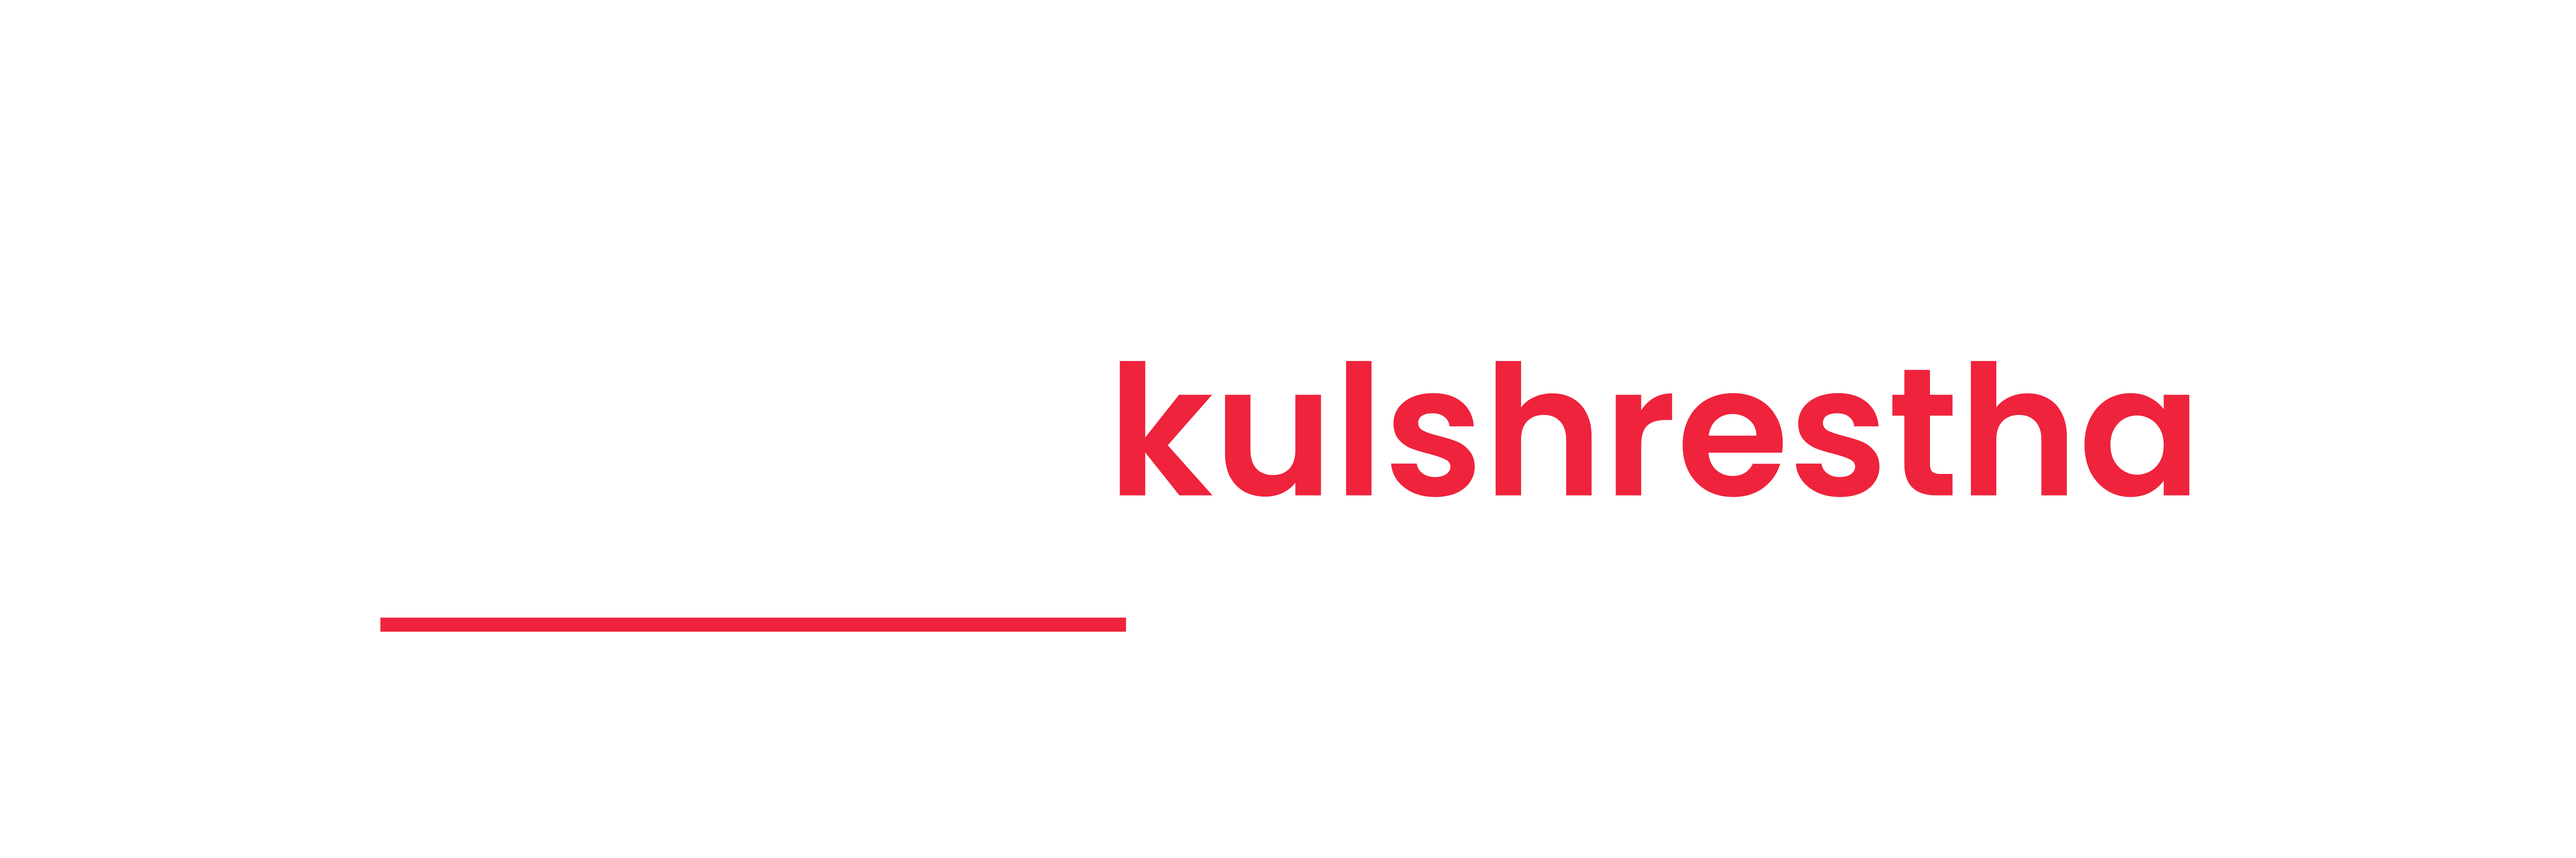
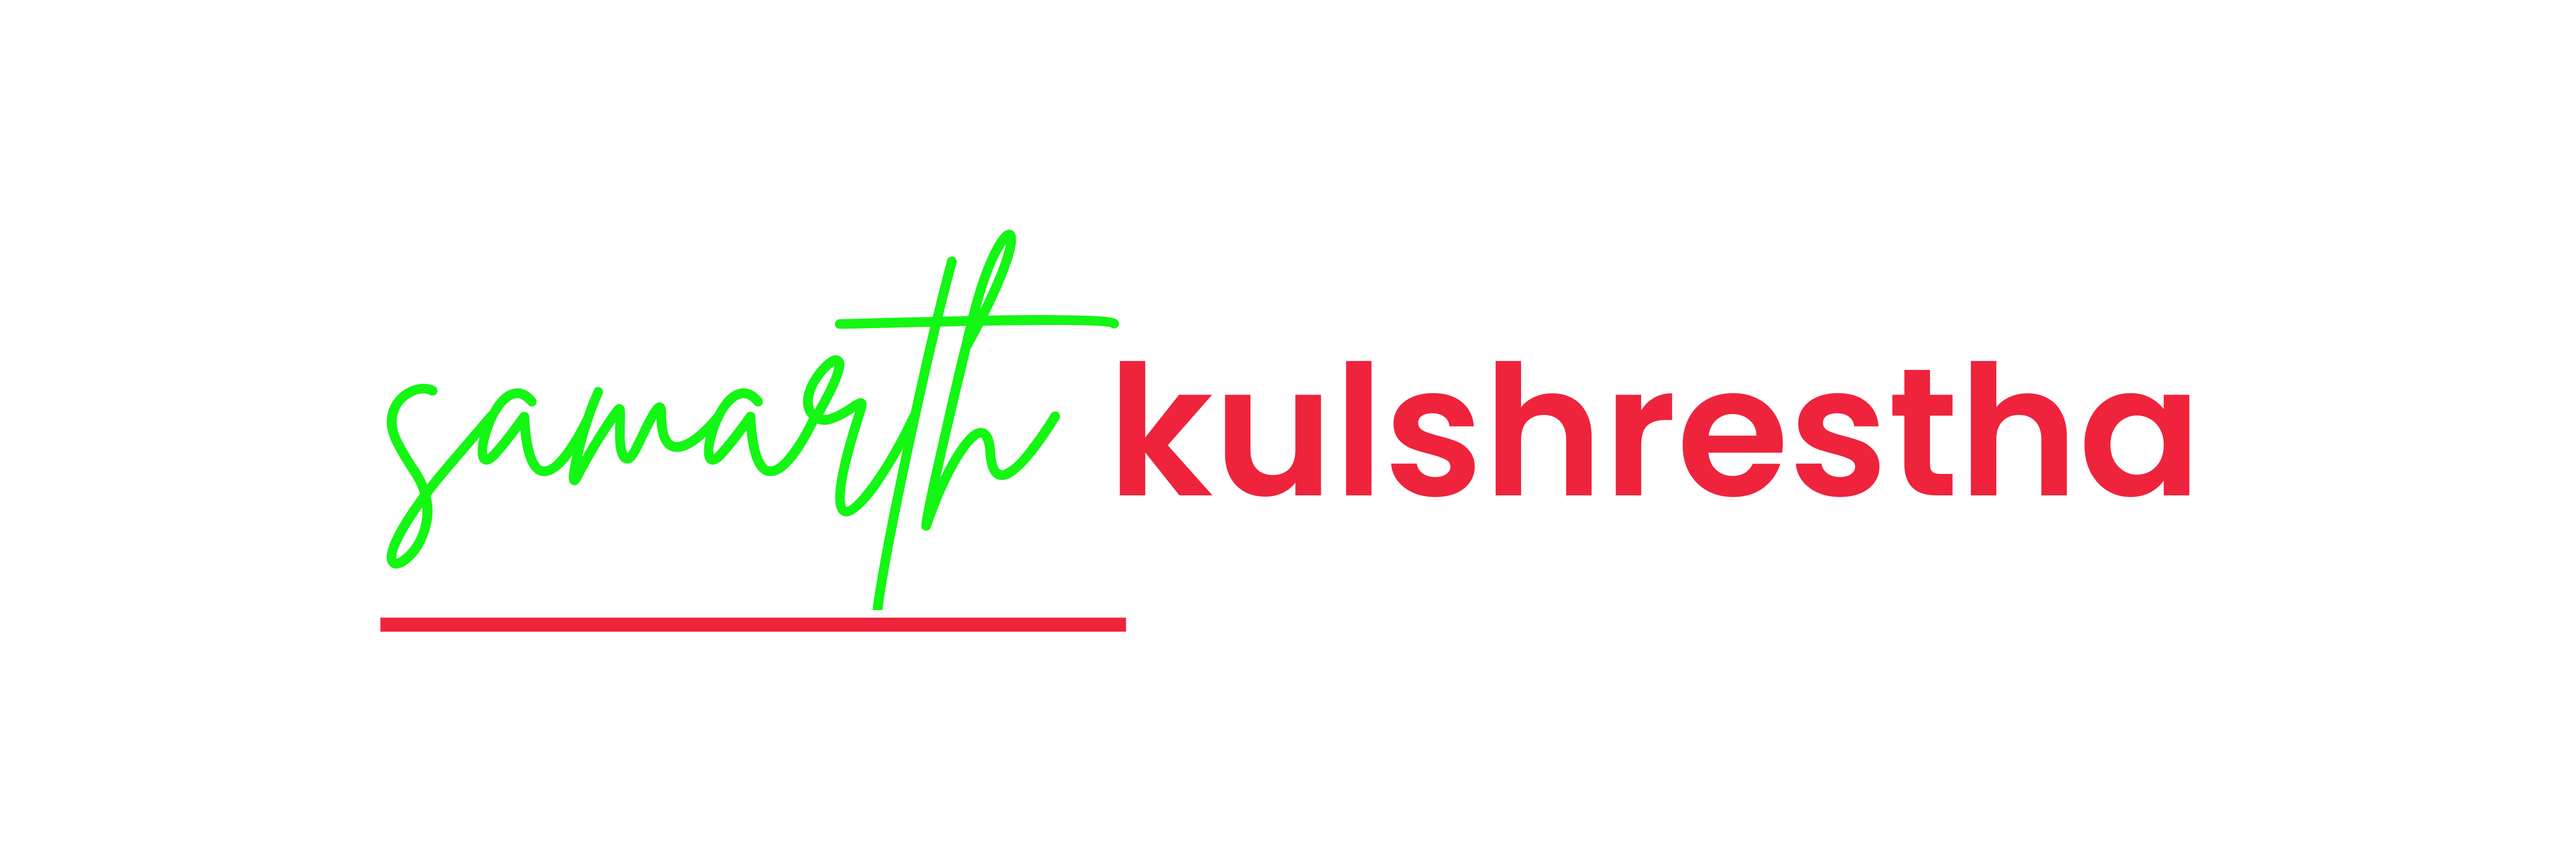
updated README and header (did not work on light theme)

Changed region(s): [[0.1249, 0.281, 0.437, 0.6556]]

diff --git a/README.md b/README.md
@@ -7,13 +7,14 @@
 
 class Human:
 
-    def __init__(self):
-        self.name = "Samarth Kulshrestha"
-        self.nickname = "sam"
-        self.role = "professional nerd"
-        self.pronouns = ["he", "him"]
-        self.interests = ["tech", "literature", "art", "math"]
-        self.currently_messing_with = "generative systems"
+        def __init__(self):
+            self.name = "Samarth Kulshrestha"
+            self.pronouns = ["He", "Him"]
+            self.interests = ["Technology", "Software", "Literature", "Art", "Mathematics", "Physics"]
+            self.os = ["GNU + Linux (Arch btw)"]
+            self.languages = ["Python", "TypeScript", "JavaScript", "C", "C++"]
+            self.software = ["REST APIs", "GraphQL APIs", "Linux System Administration"]
+            self.editor = ["NeoVim"]
 
     def say_hi(self):
         print("hello, hello <3")
@@ -23,46 +24,7 @@ me = Human()
 me.say_hi()
 ```
 
-### btw, i use-
-
-![Arch](https://img.shields.io/badge/Arch%20Linux-1793D1?logo=arch-linux&logoColor=fff&style=for-the-badge)
-
-### languages n frameworks-
-
-![TypeScript](https://img.shields.io/badge/typescript-%23007ACC.svg?style=for-the-badge&logo=typescript&logoColor=white)
-![JavaScript](https://img.shields.io/badge/javascript-%23323330.svg?style=for-the-badge&logo=javascript&logoColor=%23F7DF1E)
-![GraphQL](https://img.shields.io/badge/-GraphQL-E10098?style=for-the-badge&logo=graphql&logoColor=white)
-![Type-graphql](https://img.shields.io/badge/-TypeGraphQL-%23C04392?style=for-the-badge)
-![Apollo-GraphQL](https://img.shields.io/badge/-ApolloGraphQL-311C87?style=for-the-badge&logo=apollo-graphql)
-![NodeJS](https://img.shields.io/badge/node.js-6DA55F?style=for-the-badge&logo=node.js&logoColor=white)
-![Express.js](https://img.shields.io/badge/express.js-%23404d59.svg?style=for-the-badge&logo=express&logoColor=%2361DAFB)
-![Next JS](https://img.shields.io/badge/Next-black?style=for-the-badge&logo=next.js&logoColor=white)
-![React](https://img.shields.io/badge/react-%2320232a.svg?style=for-the-badge&logo=react&logoColor=%2361DAFB)
-![p5js](https://img.shields.io/badge/p5.js-ED225D?style=for-the-badge&logo=p5.js&logoColor=FFFFFF)
-![Strapi](https://img.shields.io/badge/strapi-%232E7EEA.svg?style=for-the-badge&logo=strapi&logoColor=white)
-![HTML5](https://img.shields.io/badge/html5-%23E34F26.svg?style=for-the-badge&logo=html5&logoColor=white)
-![CSS3](https://img.shields.io/badge/css3-%231572B6.svg?style=for-the-badge&logo=css3&logoColor=white)
-![C](https://img.shields.io/badge/c-%2300599C.svg?style=for-the-badge&logo=c&logoColor=white)
-![Python](https://img.shields.io/badge/python-3670A0?style=for-the-badge&logo=python&logoColor=ffdd54)
-![Flask](https://img.shields.io/badge/flask-%23000.svg?style=for-the-badge&logo=flask&logoColor=white)
-![Django](https://img.shields.io/badge/django-%23092E20.svg?style=for-the-badge&logo=django&logoColor=white)
-![Shell Script](https://img.shields.io/badge/shell_script-%23121011.svg?style=for-the-badge&logo=gnu-bash&logoColor=white)
-![Markdown](https://img.shields.io/badge/markdown-%23000000.svg?style=for-the-badge&logo=markdown&logoColor=white)
-![LaTeX](https://img.shields.io/badge/latex-%23008080.svg?style=for-the-badge&logo=latex&logoColor=white)
-
-### databases-
-
-![Postgres](https://img.shields.io/badge/postgres-%23316192.svg?style=for-the-badge&logo=postgresql&logoColor=white)
-![MongoDB](https://img.shields.io/badge/MongoDB-%234ea94b.svg?style=for-the-badge&logo=mongodb&logoColor=white)
-![Redis](https://img.shields.io/badge/redis-%23DD0031.svg?style=for-the-badge&logo=redis&logoColor=white)
-
-### editor-
-
-![Neovim](https://img.shields.io/badge/NeoVim-%2357A143.svg?&style=for-the-badge&logo=neovim&logoColor=white)
-
-`let me tell you joke: VS Code`
-
-### my socials, but i ain't social so goodluck-
+#### socials
 
 [![Instagram](https://img.shields.io/badge/%5Fzamarth%5F-%23E4405F.svg?style=for-the-badge&logo=Instagram&logoColor=white)](https://www.instagram.com/_zamarth_/)
 [![Reddit](https://img.shields.io/badge/Reddit-FF4500?style=for-the-badge&logo=reddit&logoColor=white)](https://www.reddit.com/user/samarthkulshrestha)
